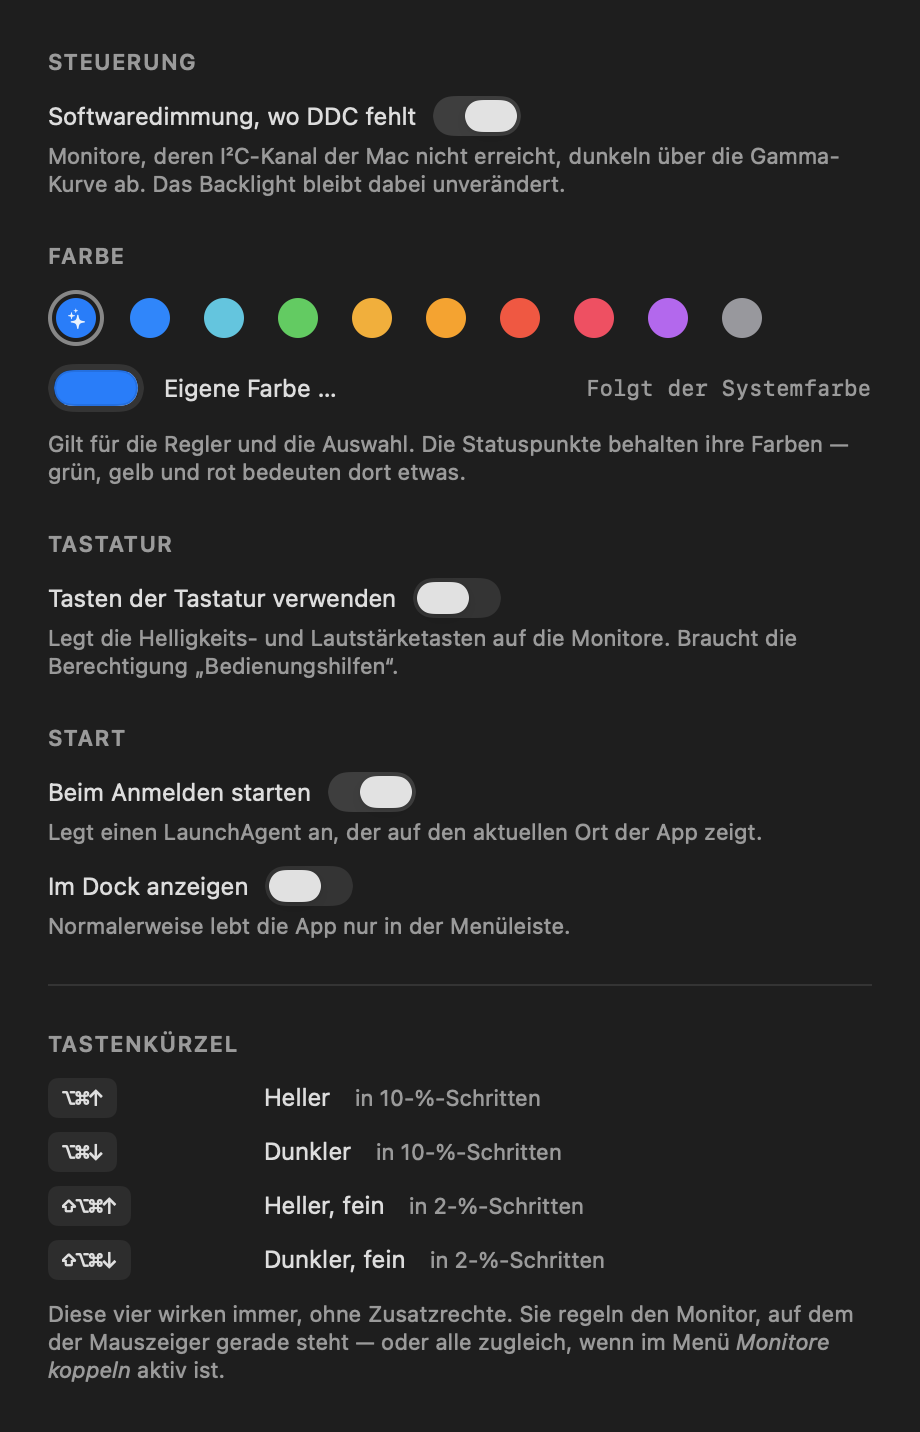
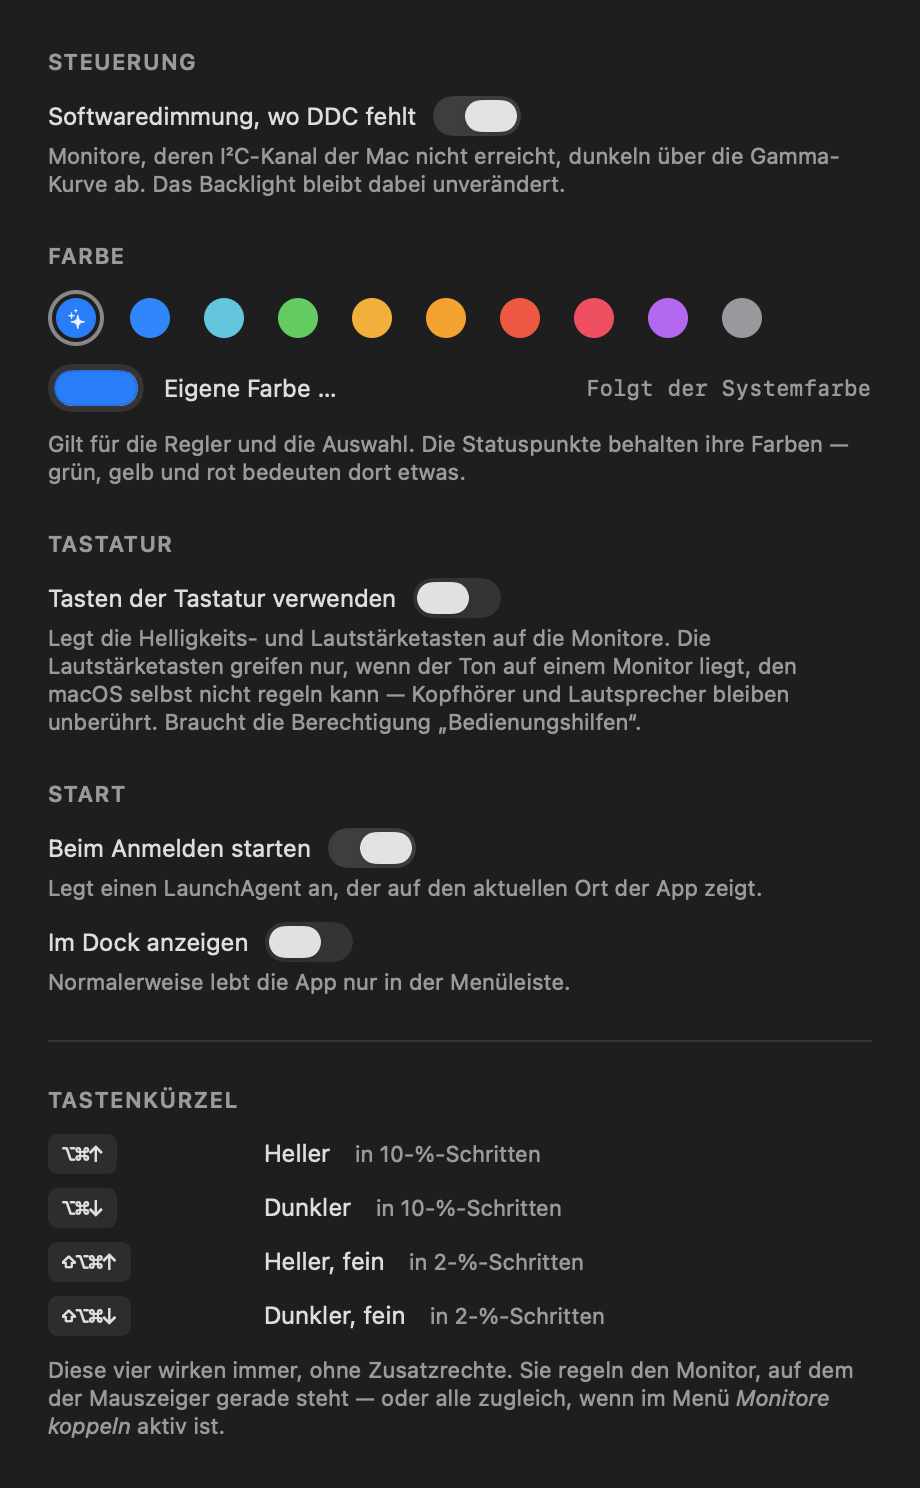
Bilder im README auf den aktuellen Stand bringen
Die alten Aufnahmen stammten aus einem unglücklichen Moment: der Testmonitor
stand gerade auf einem anderen Eingang, weshalb sie die App mit einem einzigen
Regler und "keine Rückmeldung" zeigten. Neu sind Kopfbild, Menü in Hell und
Dunkel sowie das Einstellungsfenster — jeweils mit Eingangswahl und
MCCS-Angabe, die es damals noch nicht gab.

Die Regler stehen für die Aufnahme auf sprechenden Werten. Gesetzt werden sie
nur im Modell, ohne applyBrightness() und Verwandte, damit beim Rendern nichts
an den echten Monitor geht. Seriennummern werden weiterhin durch Ordnungszahlen
ersetzt.

diff --git a/README.md b/README.md
@@ -8,8 +8,14 @@ gar keinen Regler anbietet.
 > I²C channel is unreachable. UI is in German.*
 
 <p align="center">
-  <img src="docs/menu.png" width="320" alt="Menü: ein Monitor im Detail, darunter die Monitorauswahl mit Statuspunkten">
-  &nbsp;
+  <img src="docs/hero.png" width="820" alt="BrightnessBar: Menü mit Reglern für Helligkeit, Kontrast, Lautstärke und Eingangswahl">
+</p>
+
+<p align="center">
+  <img src="docs/menu-light.png" width="290" alt="Menü im hellen Erscheinungsbild">
+  &nbsp;&nbsp;
+  <img src="docs/menu.png" width="290" alt="Menü im dunklen Erscheinungsbild">
+  &nbsp;&nbsp;
   <img src="docs/settings.png" width="380" alt="Einstellungsfenster mit erklärten Tastenkürzeln">
 </p>
 
@@ -27,6 +33,7 @@ Lautstärke.
 ## Funktionen
 
 * Helligkeit und Kontrast pro Monitor, direkt am Backlight
+* Eingang umschalten, wenn der Monitor seine Buchsen meldet
 * Lautstärke und Stummschaltung bei Monitoren mit Lautsprechern
 * Globale Tastenkürzel, die auf den Monitor unter dem Mauszeiger wirken
 * Optional die Helligkeits- und Lautstärketasten der Tastatur
